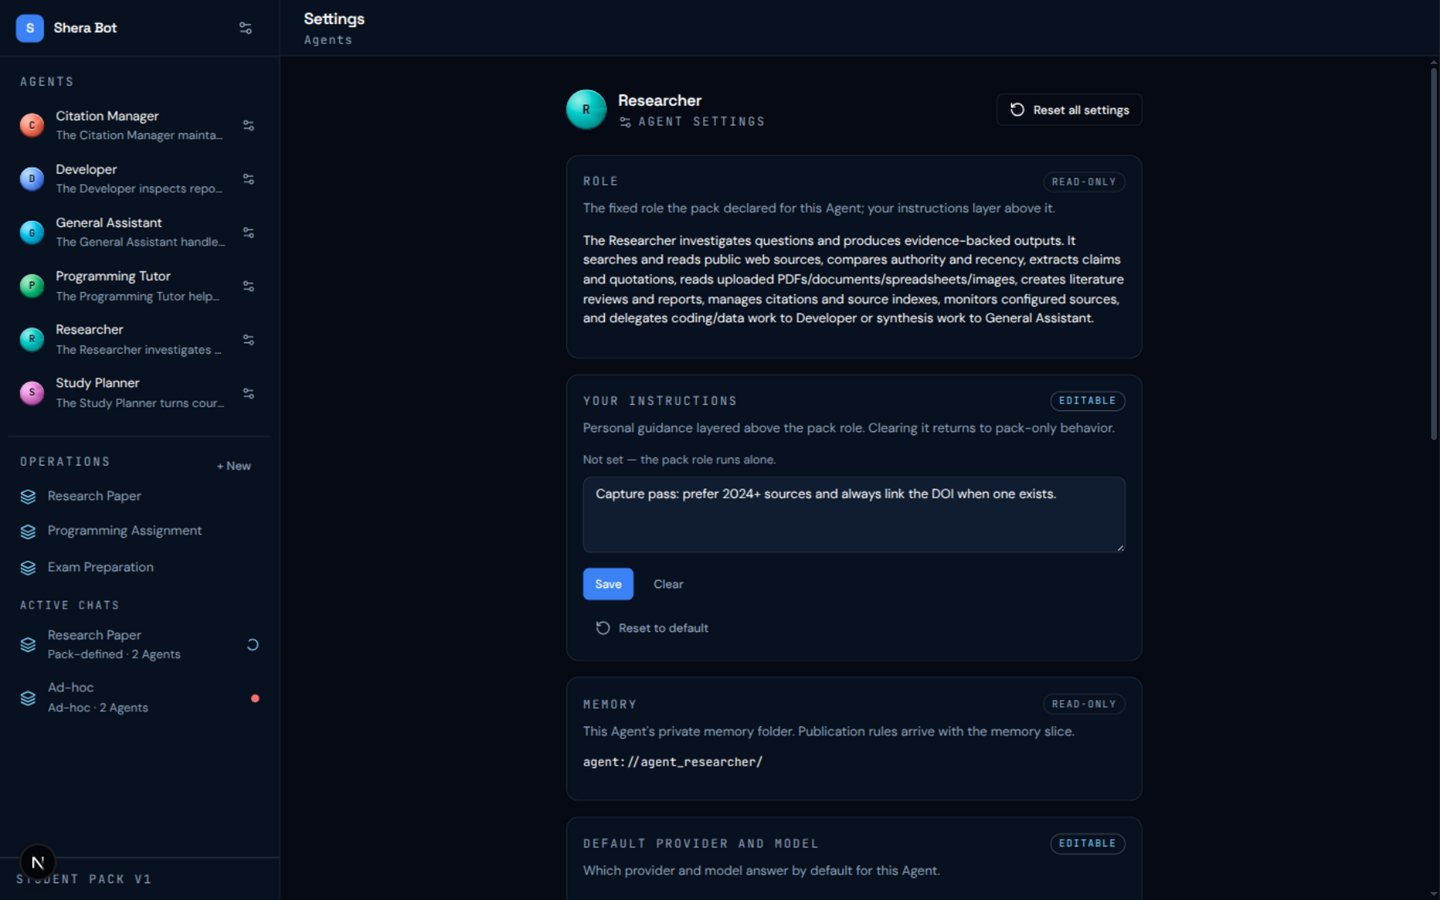
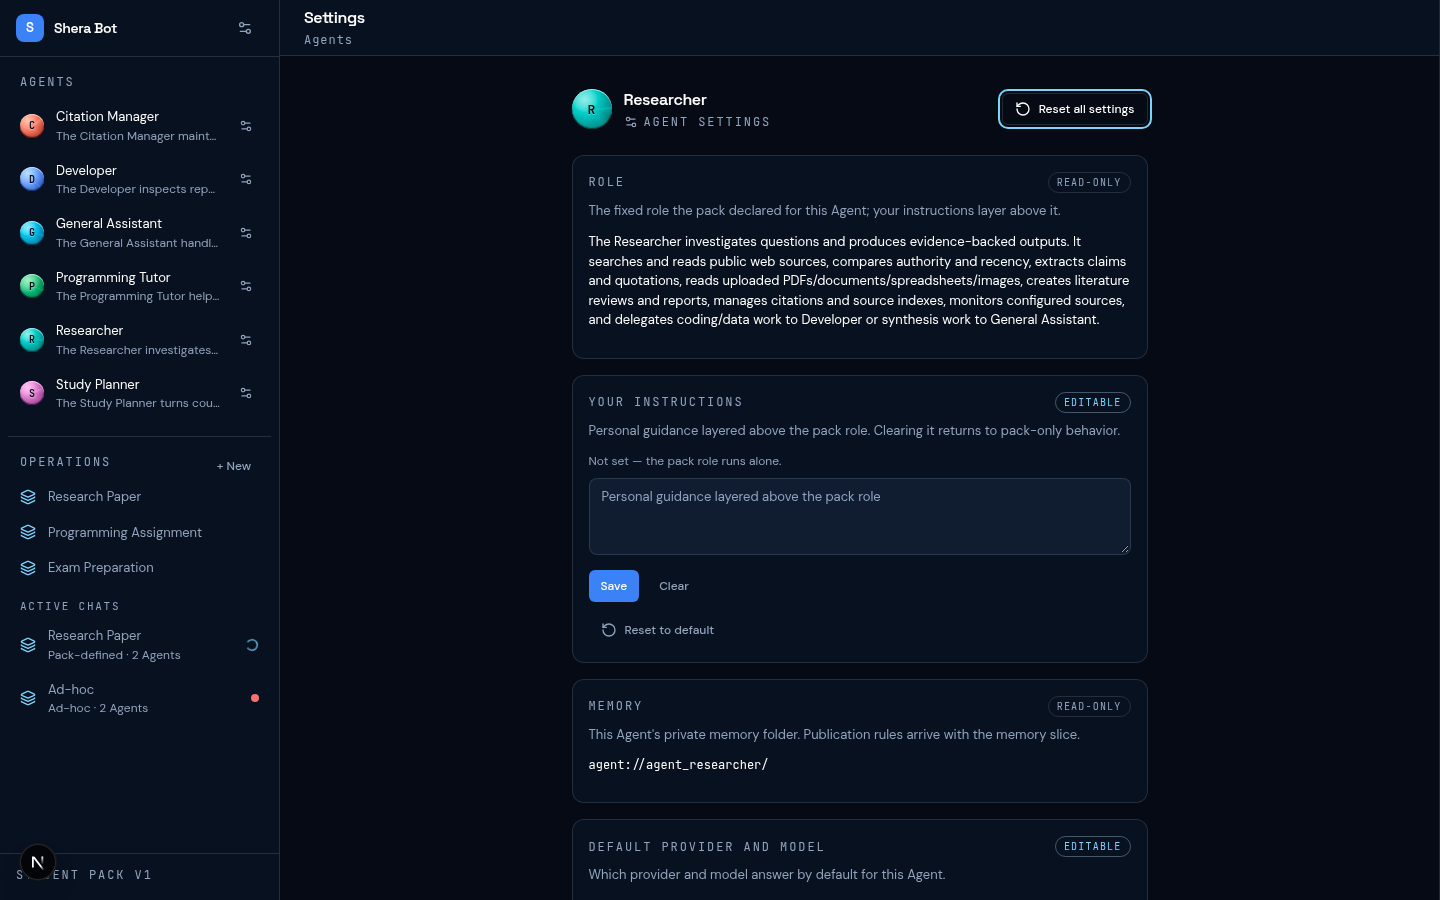
s11: keyboard focus ring — one source, full strength on arrival
Adversarial taste pass (P2, PRD §18 / UI_DESIGN §2.3): the settings page
could present no visible ring when focus landed programmatically, and the
ring that did appear on Tab faded in from the resting currentcolor because
Tailwind's transition-colors includes outline-color.

- button.tsx: transition excludes outline-color — the 2px sky ring lands at
  full strength the moment focus arrives (re-capture proves it).
- agent-settings.tsx: drop the per-field focus:outline-none /
  focus-visible:outline-* utilities — dead code (the unlayered global
  :focus-visible rule always wins the cascade) that claimed a line-accent
  ring §2.3 never specified. The global token rule is the ONE focus
  treatment.
- a11y.test.ts: pin both properties (no component redeclares the ring; the
  button transition never animates outline-color).

Evidence: settings-keyboard-focus-1440.png (Tab-focused button, computed
outline rgb(125,211,252) solid 2px) + -zoom crop.

diff --git a/apps/web/components/settings/agent-settings.tsx b/apps/web/components/settings/agent-settings.tsx
@@ -319,7 +319,7 @@ function UserInstructionsEditor({
         rows={3}
         aria-label="Your instructions"
         placeholder="Personal guidance layered above the pack role"
-        className="w-full resize-y rounded-lg border border-line bg-surface-elevated px-3 py-2 text-sm text-text placeholder:text-muted focus:outline-none focus-visible:outline focus-visible:outline-2 focus-visible:outline-line-accent"
+        className="w-full resize-y rounded-lg border border-line bg-surface-elevated px-3 py-2 text-sm text-text placeholder:text-muted"
       />
       <div className="flex items-center gap-2">
         <Button
@@ -363,14 +363,14 @@ function DefaultProviderEditor({
           onChange={(event) => setProviderId(event.target.value)}
           aria-label="Default provider id"
           placeholder="provider id"
-          className="w-full rounded-lg border border-line bg-surface-elevated px-3 py-2 font-mono text-xs text-text placeholder:text-muted focus:outline-none focus-visible:outline focus-visible:outline-2 focus-visible:outline-line-accent"
+          className="w-full rounded-lg border border-line bg-surface-elevated px-3 py-2 font-mono text-xs text-text placeholder:text-muted"
         />
         <input
           value={model}
           onChange={(event) => setModel(event.target.value)}
           aria-label="Default model"
           placeholder="model id"
-          className="w-full rounded-lg border border-line bg-surface-elevated px-3 py-2 font-mono text-xs text-text placeholder:text-muted focus:outline-none focus-visible:outline focus-visible:outline-2 focus-visible:outline-line-accent"
+          className="w-full rounded-lg border border-line bg-surface-elevated px-3 py-2 font-mono text-xs text-text placeholder:text-muted"
         />
       </div>
       {entry.recommended_default ? (
@@ -428,7 +428,7 @@ function ToolDefaultsEditor({
         rows={4}
         aria-label="Tool defaults JSON"
         spellCheck={false}
-        className="w-full resize-y rounded-lg border border-line bg-surface-elevated px-3 py-2 font-mono text-xs text-text focus:outline-none focus-visible:outline focus-visible:outline-2 focus-visible:outline-line-accent"
+        className="w-full resize-y rounded-lg border border-line bg-surface-elevated px-3 py-2 font-mono text-xs text-text"
       />
       {parseError ? <p className="text-xs text-failed">{parseError}</p> : null}
       {entry.recommended_default && entry.recommended_default.length === 0 ? (

diff --git a/apps/web/test/a11y.test.ts b/apps/web/test/a11y.test.ts
@@ -80,6 +80,25 @@ describe("focus visibility (§2.3)", () => {
     }
   });
 
+  it("keeps the global :focus-visible rule the SINGLE focus treatment", () => {
+    // The per-field focus utilities once shadowed the token rule (and the
+    // utilities layer always loses to the unlayered global rule, so they were
+    // dead code); components must never redeclare the ring.
+    for (const dir of SCAN_DIRS) {
+      for (const file of listSourceFiles(dir)) {
+        expect(readFileSync(file, "utf8"), `${file} redeclares the focus ring`).not.toMatch(
+          /focus-visible:outline|focus:outline-none/,
+        );
+      }
+    }
+    // The button transition must not animate outline-color — the ring has to
+    // land at full strength (no fade-in from the resting currentcolor).
+    const button = readFileSync(join(APP_DIR, "components", "ui", "button.tsx"), "utf8");
+    expect(button).not.toMatch(/\btransition-colors\b/);
+    expect(button).toMatch(/transition-\[[^\]]*border-color[^\]]*\]/);
+    expect(button).not.toMatch(/transition-\[[^\]]*outline-color/);
+  });
+
   it("uses no positive tabindex anywhere (native tab order only)", () => {
     const violations: string[] = [];
     for (const dir of SCAN_DIRS) {

diff --git a/apps/web/components/ui/button.tsx b/apps/web/components/ui/button.tsx
@@ -6,10 +6,13 @@ import { cn } from "@/lib/utils";
 
 /**
  * shadcn/ui button (copy-in, on @radix-ui/react-slot), adapted to the §2.1
- * token vocabulary. Focus styling comes from the global :focus-visible rule.
+ * token vocabulary. Focus styling comes from the global :focus-visible rule
+ * (§2.3: 2px sky, 2px offset) — and the transition deliberately EXCLUDES
+ * outline-color, so the focus ring appears at full strength the moment it
+ * lands instead of fading in from the resting currentcolor over 150 ms.
  */
 const buttonVariants = cva(
-  "inline-flex items-center justify-center gap-2 whitespace-nowrap rounded-lg text-sm font-medium transition-colors duration-150 disabled:pointer-events-none disabled:opacity-50 [&_svg]:size-4 [&_svg]:shrink-0",
+  "inline-flex items-center justify-center gap-2 whitespace-nowrap rounded-lg text-sm font-medium transition-[color,background-color,border-color,text-decoration-color,fill,stroke] duration-150 disabled:pointer-events-none disabled:opacity-50 [&_svg]:size-4 [&_svg]:shrink-0",
   {
     variants: {
       variant: {
